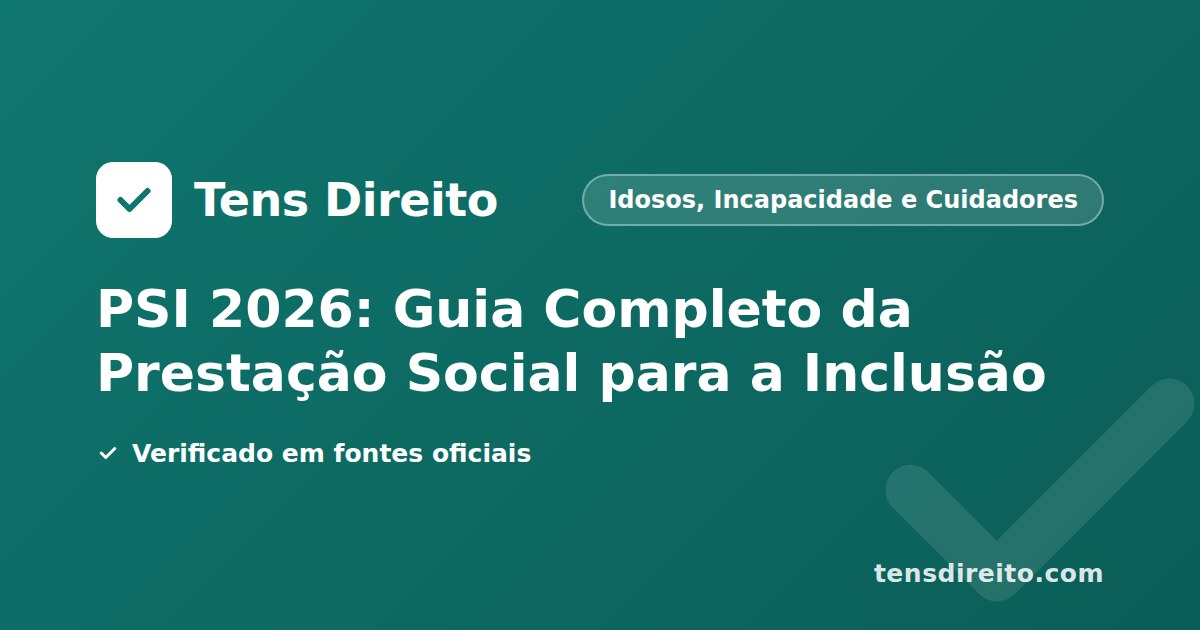
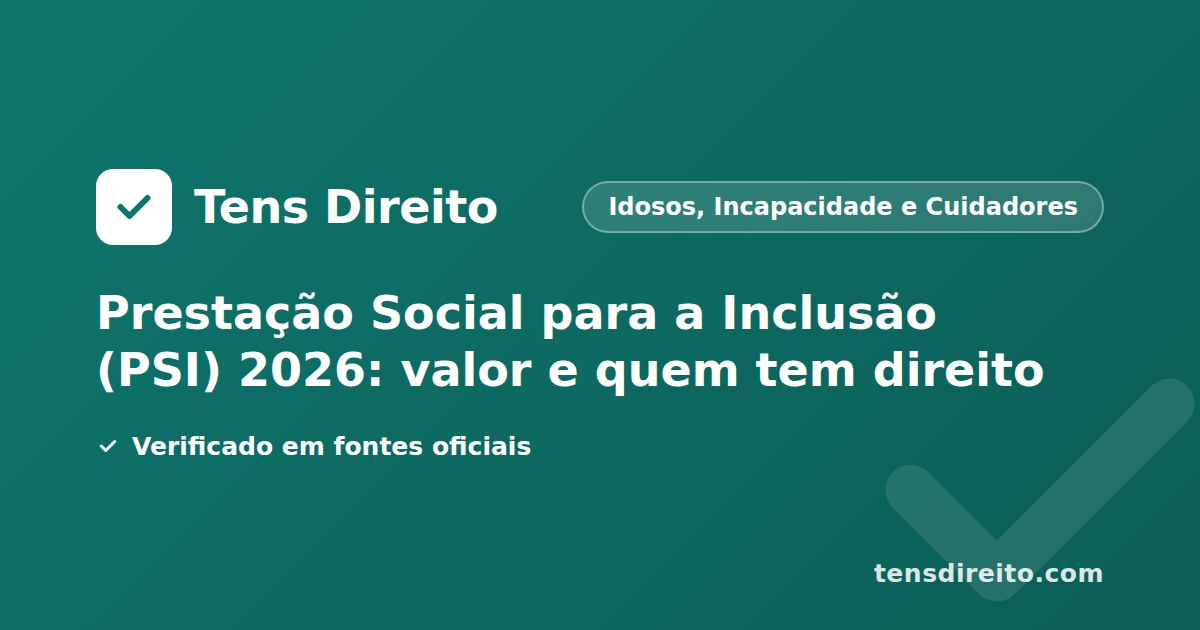
Actualiza og:title da PSI e regenera a imagem de partilha social
og:title mudou de "PSI 2026: Guia Completo da Prestação Social para a
Inclusão" para "Prestação Social para a Inclusão (PSI) 2026: valor e
quem tem direito" — mais descritivo, sem "Guia Completo" genérico.
Regenerada a imagem OG da página (scripts/gerar_og_images.py --write,
único ficheiro re-renderizado) para o cartão de partilha nunca mostrar
um título desactualizado.

diff --git a/prestacao-social-para-a-inclusao.html b/prestacao-social-para-a-inclusao.html
@@ -15,7 +15,7 @@
   <link rel="sitemap" type="application/xml" href="/sitemap.xml">
   <title>PSI 2026: valor 333,64€, quem tem direito e como pedir</title>
   <meta name="description" content="Prestação Social para a Inclusão (PSI) 2026: montante base de 333,64€/mês, quem tem direito (incapacidade ≥60%) e como pedir na Segurança Social.">
-  <meta property="og:title" content="PSI 2026: Guia Completo da Prestação Social para a Inclusão">
+  <meta property="og:title" content="Prestação Social para a Inclusão (PSI) 2026: valor e quem tem direito">
   <meta property="og:description" content="Valores 2026 com retroativos a janeiro, quem tem direito, como pedir e se a PSI está na Prestação Social Única. Cada facto com fonte oficial datada.">
   <meta property="og:url" content="https://tensdireito.com/prestacao-social-para-a-inclusao.html">
   <link rel="canonical" href="https://tensdireito.com/prestacao-social-para-a-inclusao.html">
@@ -25,7 +25,7 @@
   <meta property="og:image" content="https://tensdireito.com/assets/img/og/prestacao-social-para-a-inclusao.jpg">
   <meta property="og:image:width" content="1200">
   <meta property="og:image:height" content="630">
-  <meta property="og:image:alt" content="PSI 2026: Guia Completo da Prestação Social para a Inclusão">
+  <meta property="og:image:alt" content="Prestação Social para a Inclusão (PSI) 2026: valor e quem tem direito">
   <meta name="twitter:card" content="summary_large_image">
 
   <!-- JSON-LD: BreadcrumbList -->
